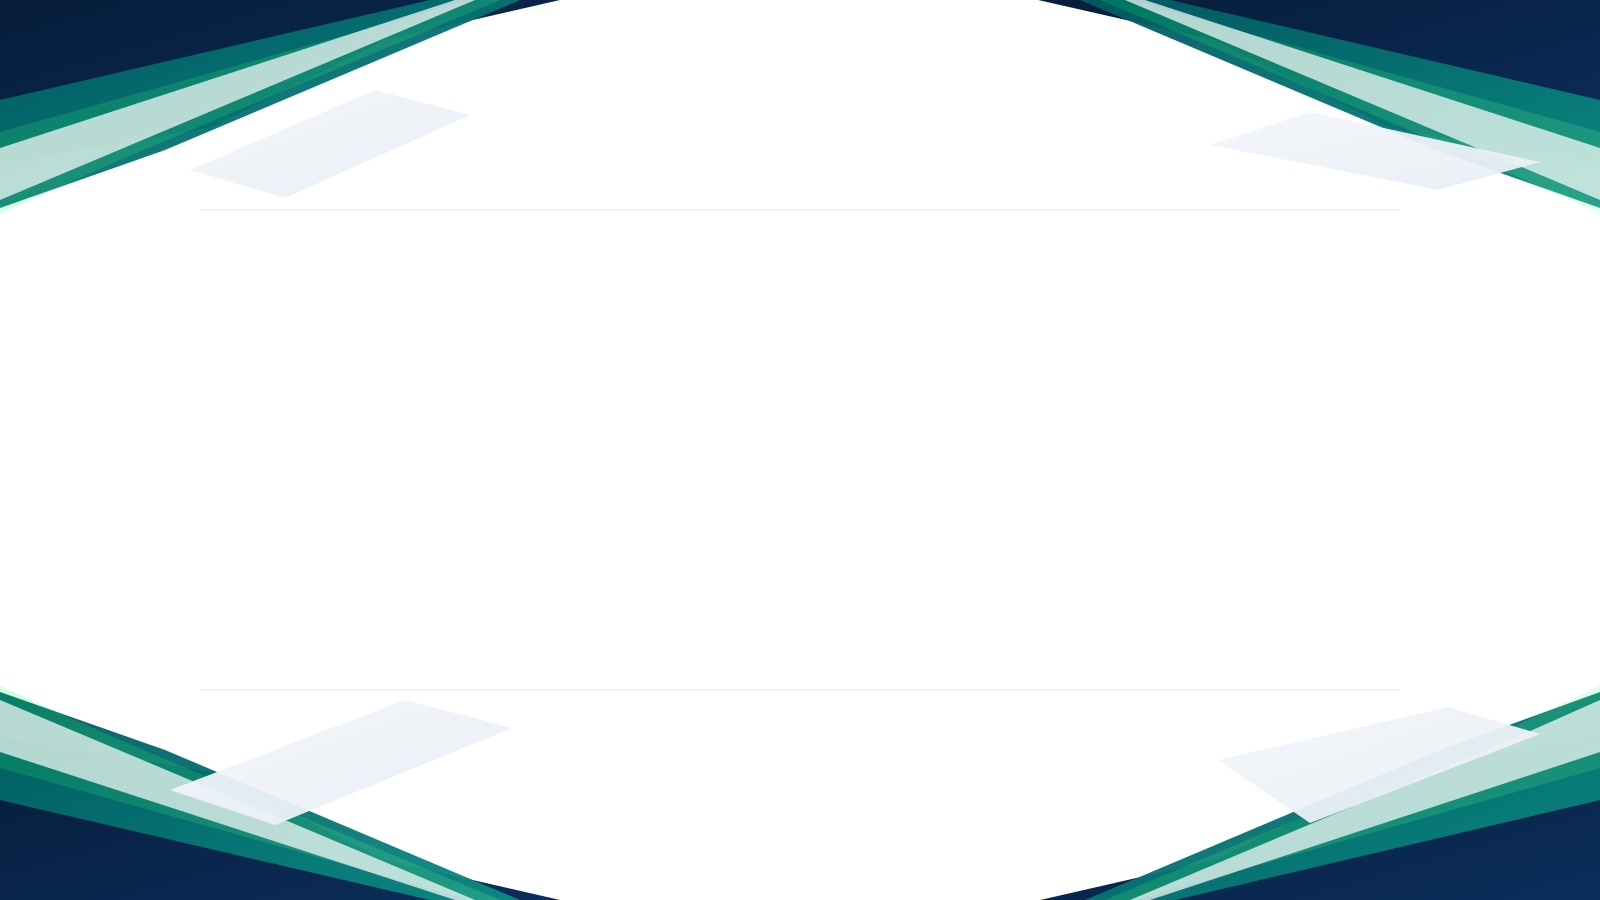
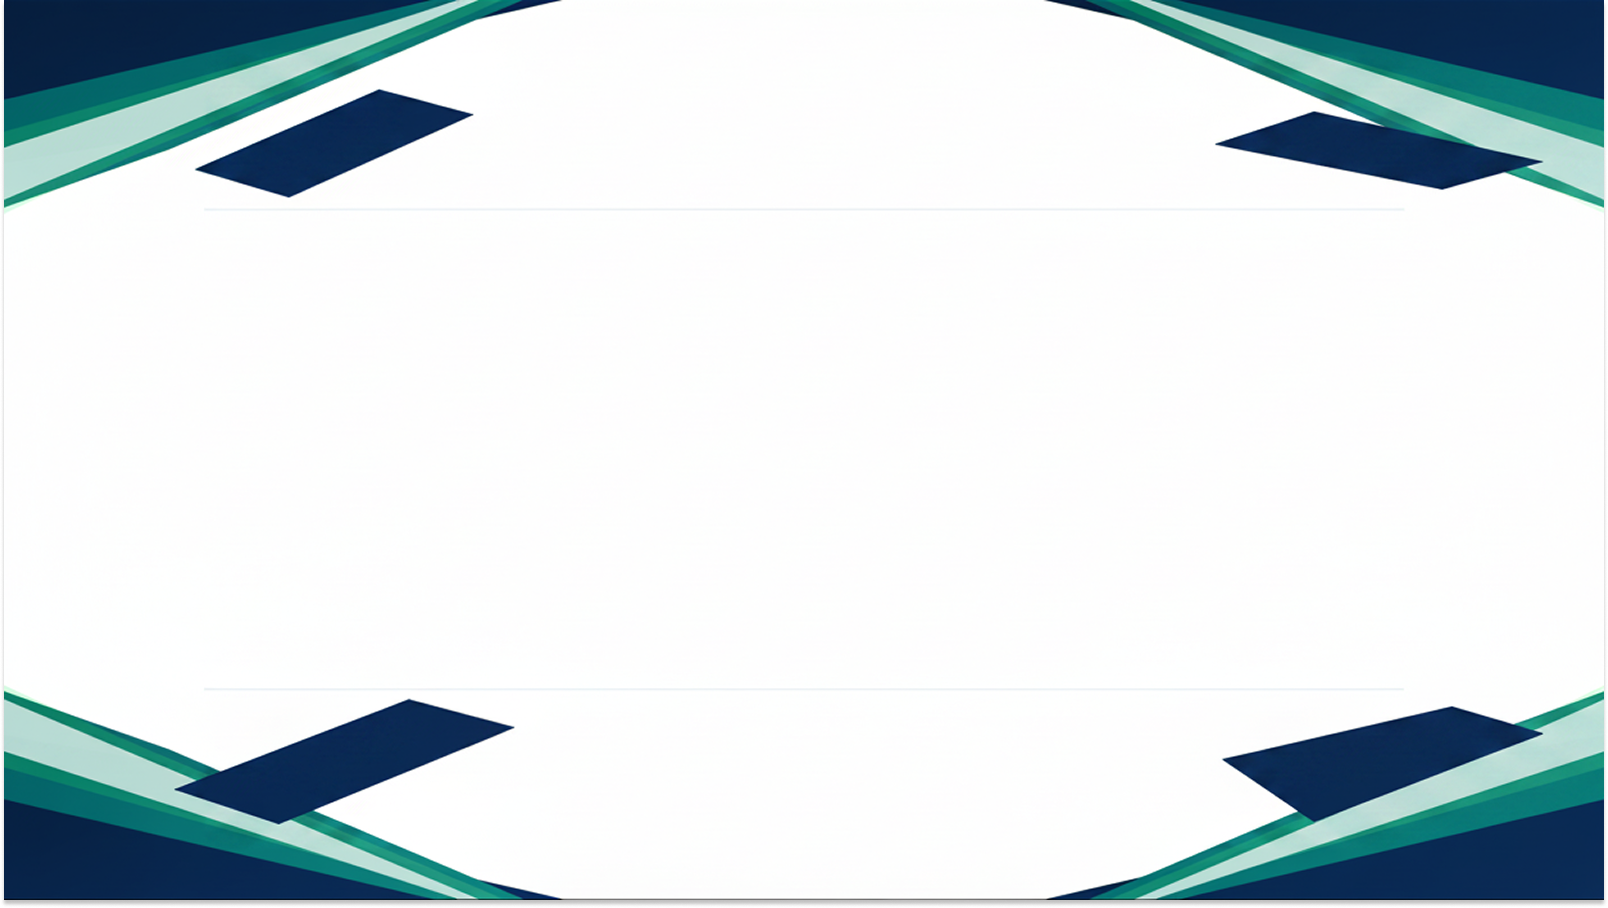
Feat:ajuste de cor do certificado e texto

diff --git a/site Scrum do Zero/public/assets/css/certificado.css b/site Scrum do Zero/public/assets/css/certificado.css
@@ -128,7 +128,7 @@ body {
   letter-spacing: 0.28em;
   text-transform: uppercase;
   font-size: 0.82rem;
-  color: #0b6b57;
+  color: black;
   margin-bottom: 12px;
   font-weight: 700;
 }
@@ -138,7 +138,7 @@ h1 {
   font-family: var(--font-display);
   font-size: var(--text-2xl);
   line-height: 1;
-  color: #0d1b2f;
+  color: #0b6b57;
 }
 
 .subtitle {
@@ -206,6 +206,7 @@ h1 {
 
 .info-card {
   padding: 16px;
+  background: linear-gradient(180deg, rgba(11,107,87,0.08), rgba(255,255,255,0.72));
 }
 
 .info-label {
@@ -245,9 +246,10 @@ h1 {
 .note-item {
   padding: 16px;
   border-radius: 16px;
-  background: linear-gradient(180deg, rgba(0,255,65,0.08), rgba(255,255,255,0.72));
+  background: linear-gradient(180deg, rgba(11,107,87,0.08), rgba(255,255,255,0.72));
   border: 1px solid rgba(0, 255, 65, 0.14);
 }
+
 
 .note-item strong {
   display: block;

diff --git a/site Scrum do Zero/public/assets/js/certificado.js b/site Scrum do Zero/public/assets/js/certificado.js
@@ -5,6 +5,7 @@ function formatCpf(cpf) {
   return clean.replace(/(\d{3})(\d{3})(\d{3})(\d{2})/, '$1.$2.$3-$4');
 }
 
+
 function preencherCertificado(usuario) {
   const nome = document.getElementById('nome');
   const cpf = document.getElementById('cpf');
@@ -14,7 +15,7 @@ function preencherCertificado(usuario) {
   const certificadoId = document.getElementById('certificadoId');
   const listaNotas = document.getElementById('listaNotas');
 
-  nome.textContent = usuario.nome || '--';
+  nome.textContent = (usuario.nome || '--').toLocaleUpperCase('pt-BR');
   cpf.textContent = formatCpf(usuario.cpf || '--');
   email.textContent = usuario.email || '--';
   dataEmissao.textContent = new Date().toLocaleDateString('pt-BR');

diff --git a/site Scrum do Zero/public/pages/certificado.html b/site Scrum do Zero/public/pages/certificado.html
@@ -28,7 +28,7 @@
         <header class="certificate-header">
           <div>
             <p class="eyebrow">PLATAFORMA DE CERTIFICAÇÃO</p>
-            <h1>Certificado Scrum</h1>
+            <h1>Scrum do Zero</h1>
             <p class="subtitle">
               Documento emitido para comprovar a conclusão do curso e o desempenho
               acadêmico consolidado do participante.
